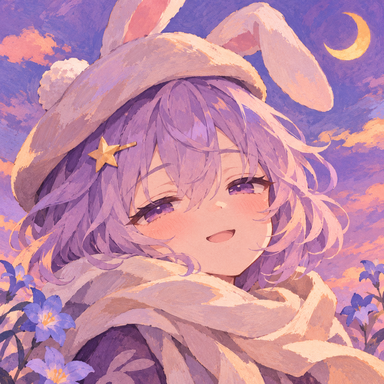
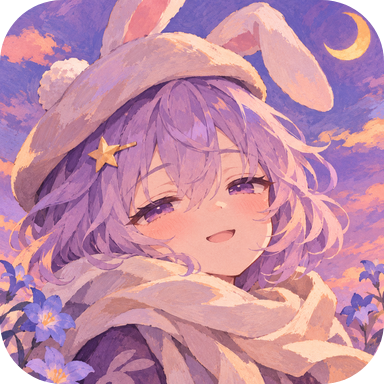
Team Desk v0.15.4-preview.2

diff --git a/README.md b/README.md
@@ -8,21 +8,37 @@
 
 ## 安装
 
-适用于 **DSH 0.2.3-alpha.2** 和 **Node.js 26.13.1 或以上**（其实你装上去试试就行了）。从[私有预览发行页](https://github.com/ousiqwq/dsh-team-desk/releases/tag/v0.15.4-preview.1)下载 npm 安装包，在保存安装包的目录执行。两种方式任选其一。
+适用于 **DSH 0.2.3-alpha.2** 和 **Node.js 26.13.1 或以上**（其实你装上去试试就行了）。从[私有预览发行页](https://github.com/ousiqwq/dsh-team-desk/releases/tag/v0.15.4-preview.2)下载 npm 安装包，在保存安装包的目录执行。两种方式任选其一。
 
 **npx 一键安装**
 
 ```sh
-npx --yes ./dsh-plugin-team-desk-0.15.4-preview.1.tgz install --profile web
+npx --yes ./dsh-plugin-team-desk-0.15.4-preview.2.tgz install --profile web
 ```
 
 **DSH CLI 安装**
 
 ```sh
-dsh plugin --profile web add ./dsh-plugin-team-desk-0.15.4-preview.1.tgz && npx --yes ./dsh-plugin-team-desk-0.15.4-preview.1.tgz adapt
+dsh plugin --profile web add ./dsh-plugin-team-desk-0.15.4-preview.2.tgz && npx --yes ./dsh-plugin-team-desk-0.15.4-preview.2.tgz adapt
 ```
 
-安装后重启 DSH，在会话右上角打开「团队协作」，选择预设并应用。自定义宿主目录可在 npx 命令末尾添加 `--host /path/to/host`。宿主适配作用于使用同一套 DSH 程序文件的所有配置。
+安装后重启 DSH。自定义宿主目录可在 npx 命令末尾添加 `--host /path/to/host`。宿主适配作用于使用同一套 DSH 程序文件的所有配置。
+
+## 打开团队，启用四窗
+
+1. 打开要作为主会话的对话，点击右上角的 **双人图标**。首次使用时，点击「创建团队」并确认。已有团队会直接进入设置。
+2. 在「切换预设」选择 **逆向工作流（四人）**，打开「同时应用预设排布」，再点 **应用到当前团队**。配置生效后点「查看窗口」，就能在四个窗格里分别对话。
+
+![四个会话正在排查日历订阅异常。工作席发出两条派单，静态席收件后核对字段，动态席运行复现用例。箭头标出右上角团队设置入口。](assets/previews/four-panes.png)
+
+## 拖拽排布
+
+- **添加分屏**　按住左侧会话列表中的成员，拖到目标窗格。蓝色预览会标出松开后的范围。下图把「复现订阅异常（动态分析）」拖到「核对日历字段（静态分析）」的下半部，出现「在此窗格下方添加」时松开。拖入同一工作目录的独立会话，也会把它加入团队。
+- **交换位置**　四窗中，按住已显示窗格的标题，拖到另一窗格中央，松开即可交换位置。
+- **替换窗格**　四窗已满时，从左侧拖入尚未显示的会话，会替换鼠标所在的窗格。被替换的会话仍在左侧列表。
+- **放进右侧栏**　先展开右侧栏，再把会话拖进栏内。拖到对话区的最右边缘会调整分屏。
+
+![从左侧会话树按住「复现订阅异常」，拖入「核对日历字段」下方的蓝色区域后松开。](assets/previews/drag-to-split.png)
 
 ## 团队预设
 
@@ -34,7 +50,7 @@ dsh plugin --profile web add ./dsh-plugin-team-desk-0.15.4-preview.1.tgz && npx 
 
 ## 会话与协作
 
-- 在左侧会话树切换成员，最多同时展示四个窗格。成员沿用各自的 DSH 对话模式与文件操作权限。
+- 成员沿用各自的 DSH 对话模式与文件操作权限。
 - 按成员间的连接派单、跟进和回传。在团队内查看任务状态、文件变更和异常记录。
 - 归档主会话时，已绑定成员随团队归档；解除绑定后，成员可以作为独立会话继续使用。
 
